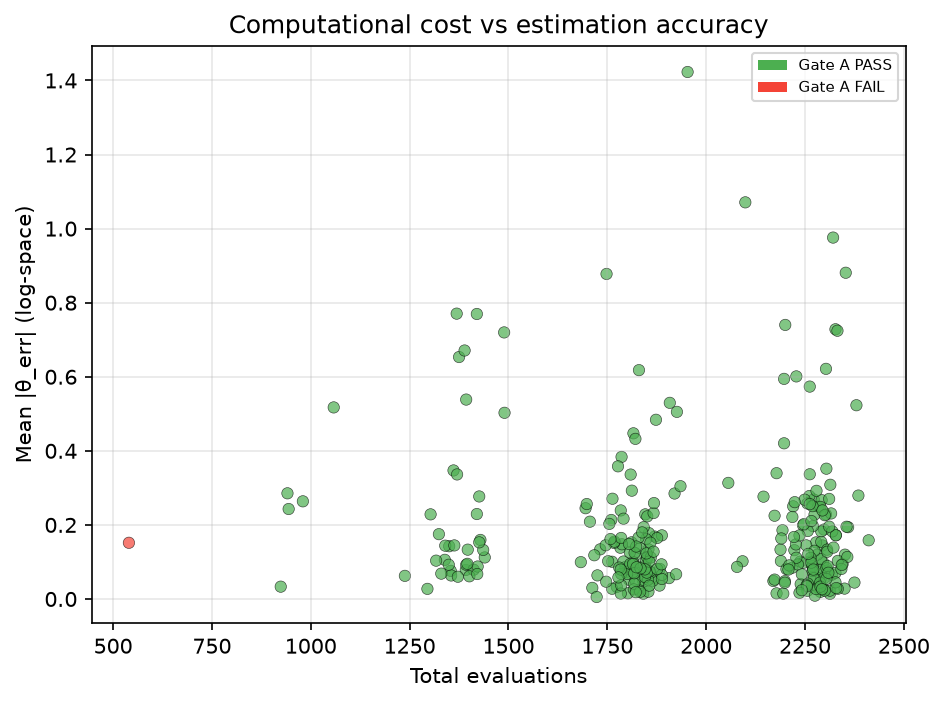
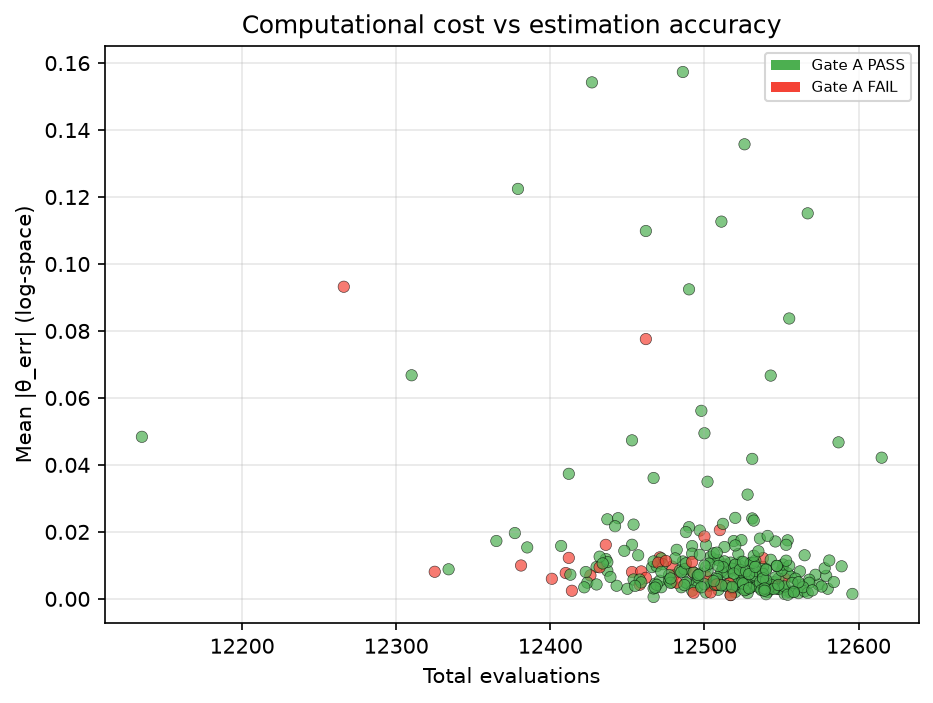
docs: reference figures now show the 300-patient core run
Same 3 plots regenerated from the new core sweep (VG/VI/kp1/Gb,
300 patients, 25x500+LM): tight diagonals (med err <0.01),
A 262/300, B 279/300, C avg 0.2 dominated, fixed ~12.5k budget.
Captions rewritten to verified numbers; the older 5-param sweep
with k2/kp2 scatter stays on disk as the documented contrast
in examples/complex_irregular_patient (Act 2).

diff --git a/README.md b/README.md
@@ -88,8 +88,8 @@ Rationale in [docs/TERMINOLOGY.md](docs/TERMINOLOGY.md).
 
 ## Results
 
-Reference sweep: 300 virtual patients, 1 day each, 5 params
-(`VG, k2, kabs, kp1, kp2`), 5 CMA-ES restarts × 500 evals + LM.
+Reference sweep: 300 virtual patients, 1 day each, identifiable core of
+4 params (`VG, VI, kp1, Gb`), 25 CMA-ES restarts × 500 evals + LM.
 Raw output is megabytes of JSON and lives outside git; the three figures
 below are the curated exception (`docs/figures/`, regenerable with
 `python3 synthetic_study/analyze_results.py --json <sweep>.json --out docs/figures
@@ -97,24 +97,25 @@ below are the curated exception (`docs/figures/`, regenerable with
 
 ![True vs recovered θ, 300 patients](docs/figures/true_vs_recovered.png)
 
-Recovery follows identifiability, not optimism: `kp1` (median |err| 0.04),
-`VG` (0.07) and `kabs` (0.10) sit on the diagonal; `k2` (0.15) and `kp2`
-(0.18) scatter. Axes are floored at ±0.25 log-units so closeness to the
-diagonal reads against a fixed scale, not matplotlib autoscale.
+All four params sit on the diagonal — median |err| `Gb` 0.003, `VG` 0.005,
+`kp1` 0.006, `VI` 0.008 (under 1% in physical units). Axes are floored at
+±0.25 log-units so closeness to the diagonal reads against a fixed scale,
+not matplotlib autoscale.
 
 ![Gate pass rates and Gate C histogram](docs/figures/gate_summary.png)
 
-Gate A (restart consensus) passes 299/300; gate B (residual structure)
-268/300. Gate C marks ~2–3 params per patient as prior-dominated — the
-pipeline reports what the data cannot pin down instead of silently fitting
-it.
+Gate A (restart consensus) passes 262/300; gate B (residual structure)
+279/300, with only 1 patient failing both. Gate C averages 0.2
+prior-dominated params per patient (239/300 fully clean; `VI` flagged most
+often — insulin kinetics from glucose alone is the weakest link of the
+four).
 
 ![Compute cost vs estimation accuracy](docs/figures/evals_vs_accuracy.png)
 
-Each dot is a patient (green: gate A pass; the single red dot is the one
-gate-A failure). Past ~1500 evaluations most land below 0.4 mean |err|, but
-outliers persist at every budget — compute does not rescue the hard cases,
-which is the identifiability story again, from another angle.
+Each dot is a patient at a fixed budget (~12.5k evaluations). Errors
+cluster below 0.02 with isolated outliers; red gate-A failures sit at low
+errors too — on this well-observed set, gate passage barely separates
+accuracy, i.e. the gates read conservative rather than optimistic.
 
 Beyond the reference sweep, `examples/complex_irregular_patient/` is a
 worked single-patient case (irregular meals + correction boluses): the
